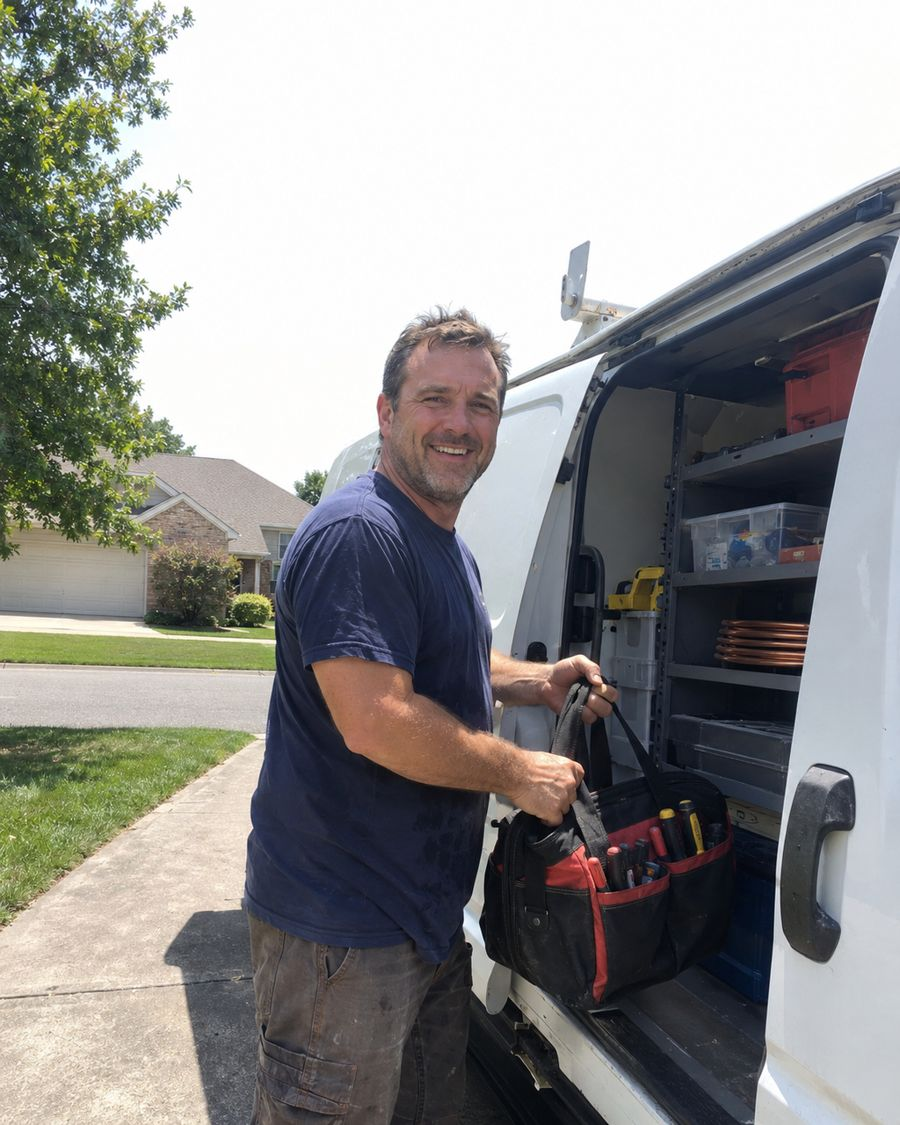
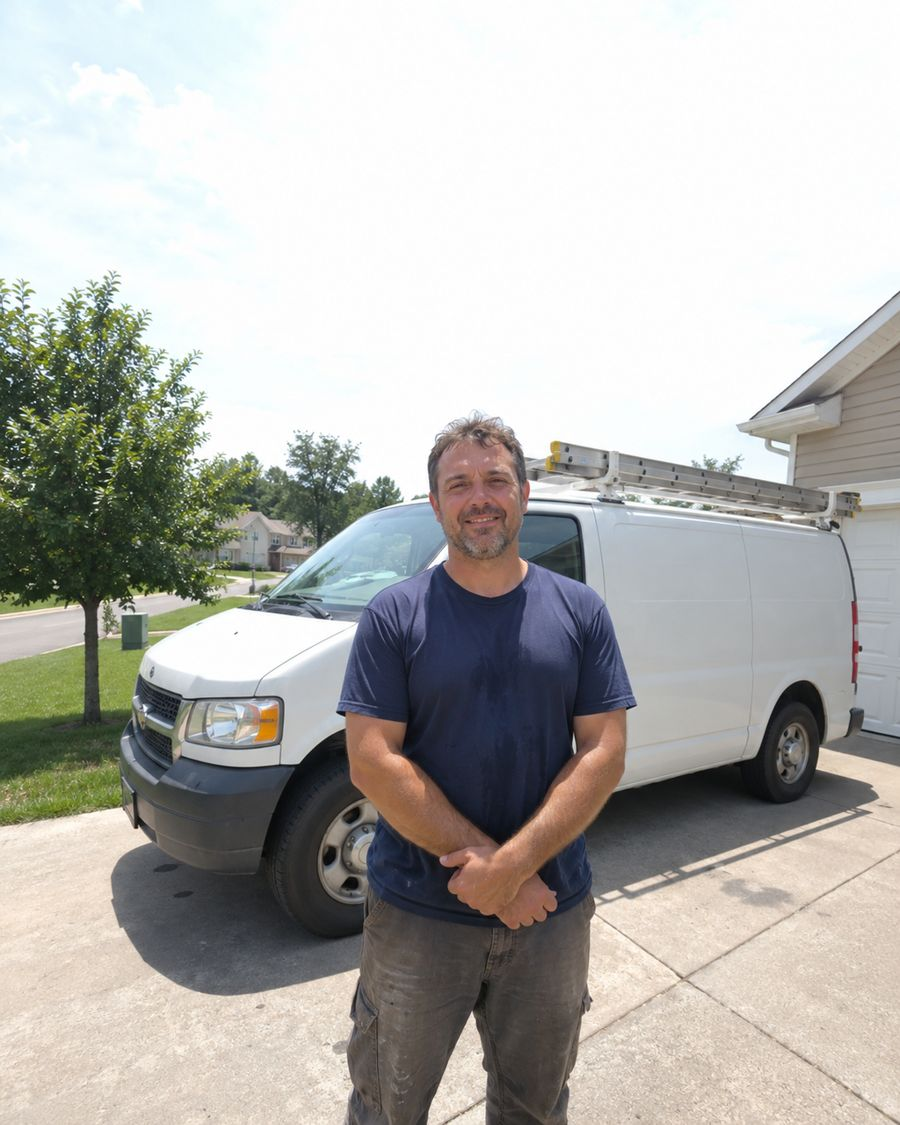
Preview: mix of standing and on-the-job photos

diff --git a/public/preview/home.html b/public/preview/home.html
@@ -31,7 +31,7 @@
         <p class="price-note">From $297 a month for up to 300 calls. No set-up fee on a 3 month plan.</p>
       </div>
       <div class="hero-photo">
-        <img src="img/hero-hvac-owner.jpg" alt="An HVAC business owner unloading tools from his van, smiling at the camera.">
+        <img src="img/hero-hvac-owner.jpg" alt="An HVAC business owner standing in front of his van, smiling at the camera.">
       </div>
     </div>
   </div>
@@ -43,7 +43,7 @@
     <p class="lead">You cannot pick up when you are on a roof or under a sink. The caller does not wait. They ring the next company.</p>
     <div class="people">
       <div class="person"><img src="img/hvac-tech.jpg" alt="An HVAC technician servicing an outdoor unit"><div><h3>HVAC</h3><p>The no-cool call at 9 pm gets answered and booked for the morning.</p></div></div>
-      <div class="person"><img src="img/roofer.jpg" alt="A roofer kneeling on a roof with a nail gun, smiling at the camera"><div><h3>Roofing</h3><p>Storm week calls are caught and sorted, so the urgent ones reach you first.</p></div></div>
+      <div class="person"><img src="img/roofer.jpg" alt="A roofer standing in front of a house he is working on, smiling at the camera"><div><h3>Roofing</h3><p>Storm week calls are caught and sorted, so the urgent ones reach you first.</p></div></div>
       <div class="person"><img src="img/plumber.jpg" alt="A plumber working under a kitchen sink, smiling at the camera"><div><h3>Plumbing</h3><p>Hands full? The call is taken and the job details are written down for you.</p></div></div>
     </div>
   </div>
